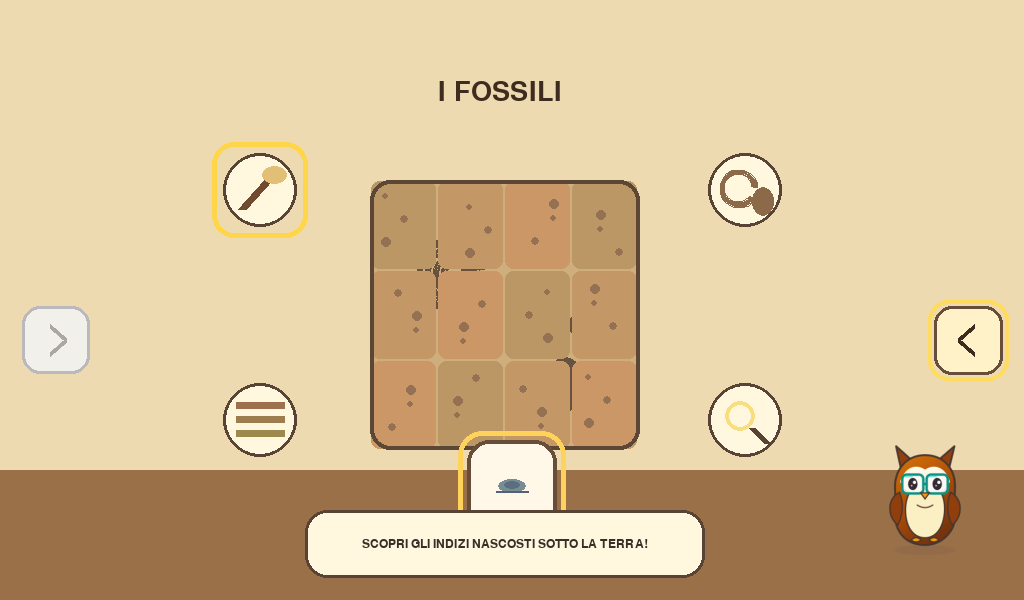
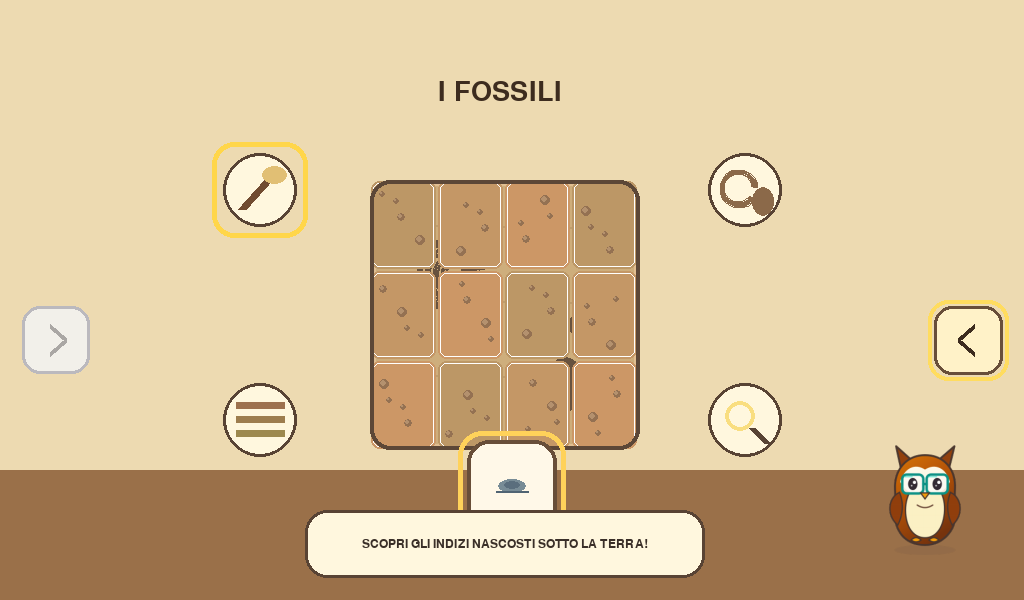
Encyclopedia: iterate history.fossils - dig pit bevel + sediment strata + pebble highlight
Iterative polish. Dig pit now with inner bevel, strata lines, pebble highlight.

diff --git a/activities/enciclopedia_greia/pages/fossils.py b/activities/enciclopedia_greia/pages/fossils.py
@@ -282,9 +282,14 @@ class FossilsPage(EncyclopediaPage):
         )
 
     def _draw_dig(self, surface: pygame.Surface) -> None:
+        # Dig pit with subtle inner shadow and sediment layers
         pygame.draw.rect(surface, (206, 174, 124), _DIG_RECT, border_radius=20)
+        # Inner bevel
+        pygame.draw.rect(surface, (225, 190, 145), _DIG_RECT.inflate(-6, -6), border_radius=16, width=3)
+        # Sediment strata lines
+        for sy in (_DIG_RECT.y + 45, _DIG_RECT.y + 120, _DIG_RECT.y + 195):
+            pygame.draw.line(surface, (190, 158, 110), (_DIG_RECT.x + 12, sy), (_DIG_RECT.right - 12, sy + 2), 2)
         self._draw_hidden_fossils(surface)
-
         for index in range(_COLUMNS * _ROWS):
             if self._model.is_cleared(index):
                 continue
@@ -296,16 +301,15 @@ class FossilsPage(EncyclopediaPage):
                 _CELL_H,
             )
             shade = 188 + (index % 3) * 8
-            pygame.draw.rect(
-                surface,
-                (shade, 151, 102),
-                rect.inflate(-2, -2),
-                border_radius=8,
-            )
-            for pebble in range(3):
-                px = rect.x + 15 + ((index * 17 + pebble * 19) % max(20, rect.width - 30))
-                py = rect.y + 16 + ((index * 11 + pebble * 23) % max(20, rect.height - 30))
-                pygame.draw.circle(surface, (148, 113, 82), (px, py), 3 + pebble)
+            # Cell with highlight and pebbles
+            pygame.draw.rect(surface, (shade, 151, 102), rect.inflate(-2, -2), border_radius=8)
+            pygame.draw.rect(surface, (255, 255, 255, 18), rect.inflate(-6, -6), border_radius=6, width=1)
+            for pebble in range(4):
+                px = rect.x + 12 + ((index * 17 + pebble * 19) % max(20, rect.width - 24))
+                py = rect.y + 14 + ((index * 11 + pebble * 23) % max(20, rect.height - 28))
+                r = 3 + (pebble % 3)
+                pygame.draw.circle(surface, (148, 113, 82), (px, py), r)
+                pygame.draw.circle(surface, (180, 145, 110), (px - 1, py - 1), max(1, r - 2))
 
         pygame.draw.rect(surface, (92, 71, 55), _DIG_RECT, 4, border_radius=20)
 
